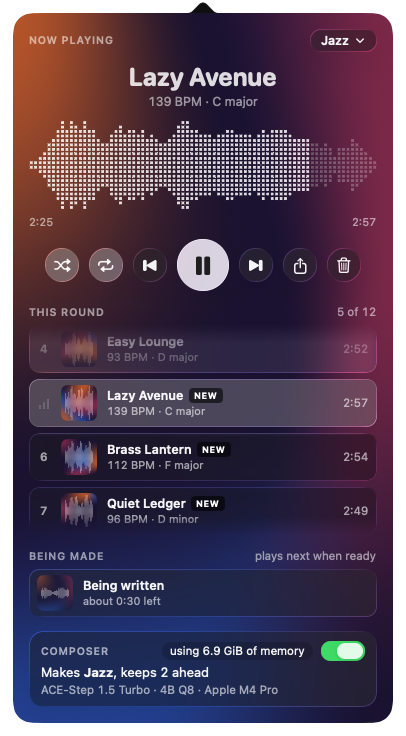
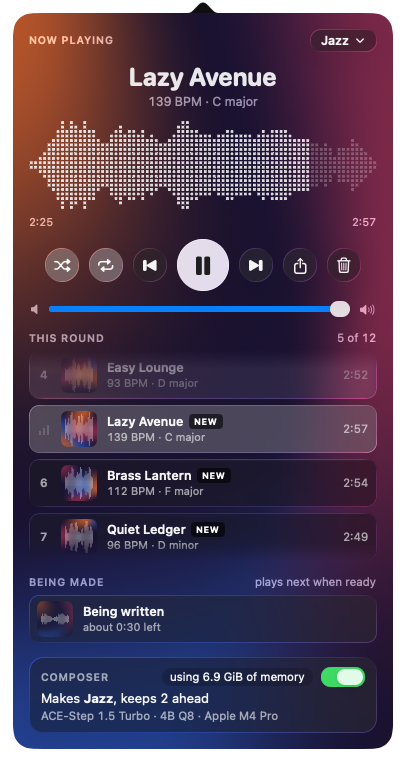
docs: the volume slider in the screenshots and the README
playing, lyrics and composing retaken from the demo with the picture
held still, now with the volume slider under the round controls; their
alt text says so. playing-light is unchanged: its retake came out with
the inactive look.

diff --git a/README.md b/README.md
@@ -5,7 +5,7 @@ by ACE-Step 1.5 Turbo through an embedded `ace-server` running on the GPU.
 Nothing is sent anywhere once the model is downloaded.
 
 <p align="center">
-  <img src="docs/screenshots/playing.png" width="380" alt="The SwiftTunes popover playing a Jazz tune: its name, tempo and key, the tune's shape as columns of dots filled up to the position, and seven round controls with Previous left of the play button. Below, This round reads 5 of 12 over a list of the whole round, scrolled so the playing tune sits second: tune 4, already played, dimmed at the top; tune 5 highlighted with a small level meter in place of its number; tunes 6 and 7 below, fading at the edge into the rest. Then the tune being made, and the composer bar.">
+  <img src="docs/screenshots/playing.png" width="380" alt="The SwiftTunes popover playing a Jazz tune: its name, tempo and key, the tune's shape as columns of dots filled up to the position, and seven round controls with Previous left of the play button, and under them a volume slider between a quiet and a loud speaker. Below, This round reads 5 of 12 over a list of the whole round, scrolled so the playing tune sits second: tune 4, already played, dimmed at the top; tune 5 highlighted with a small level meter in place of its number; tunes 6 and 7 below, fading at the edge into the rest. Then the tune being made, and the composer bar.">
 </p>
 
 SwiftTunes is inspired by [Flowtunes](https://github.com/omacom/flowtunes)
@@ -49,8 +49,8 @@ from Omarchy.
 
 <table>
   <tr>
-    <td><img src="docs/screenshots/composing.png" width="250" alt="Nothing playing yet in Synthwave: the hero shows a wave of dots that moves while the first tune is written, This round has nothing in it yet, and a separate Being made list shows the tune being written and one not started."></td>
-    <td><img src="docs/screenshots/lyrics.png" width="250" alt="A sung tune playing, with tempo, key and the word sung under its name; the wave has shrunk to a thin strip and the words show in a scrolling box headed Lyrics as written. Below the controls, This round reads 1 of 5: the playing tune highlighted at the top of the list and the next tunes under it, fading at the edge."></td>
+    <td><img src="docs/screenshots/composing.png" width="250" alt="Nothing playing yet in Synthwave: the hero shows a wave of dots that moves while the first tune is written, the round controls with the volume slider under them, This round has nothing in it yet, and a separate Being made list shows the tune being written and one not started."></td>
+    <td><img src="docs/screenshots/lyrics.png" width="250" alt="A sung tune playing, with tempo, key and the word sung under its name; the wave has shrunk to a thin strip and the words show in a scrolling box headed Lyrics as written. Under the round controls sits the volume slider; below it, This round reads 1 of 5: the playing tune highlighted at the top of the list and the next tunes under it, fading at the edge."></td>
     <td><img src="docs/screenshots/genres.png" width="250" alt="The genre chooser: nine genres as tiles in their own colours, each with its kept count or what is playing, and a dashed tile to add a new genre."></td>
   </tr>
   <tr>
